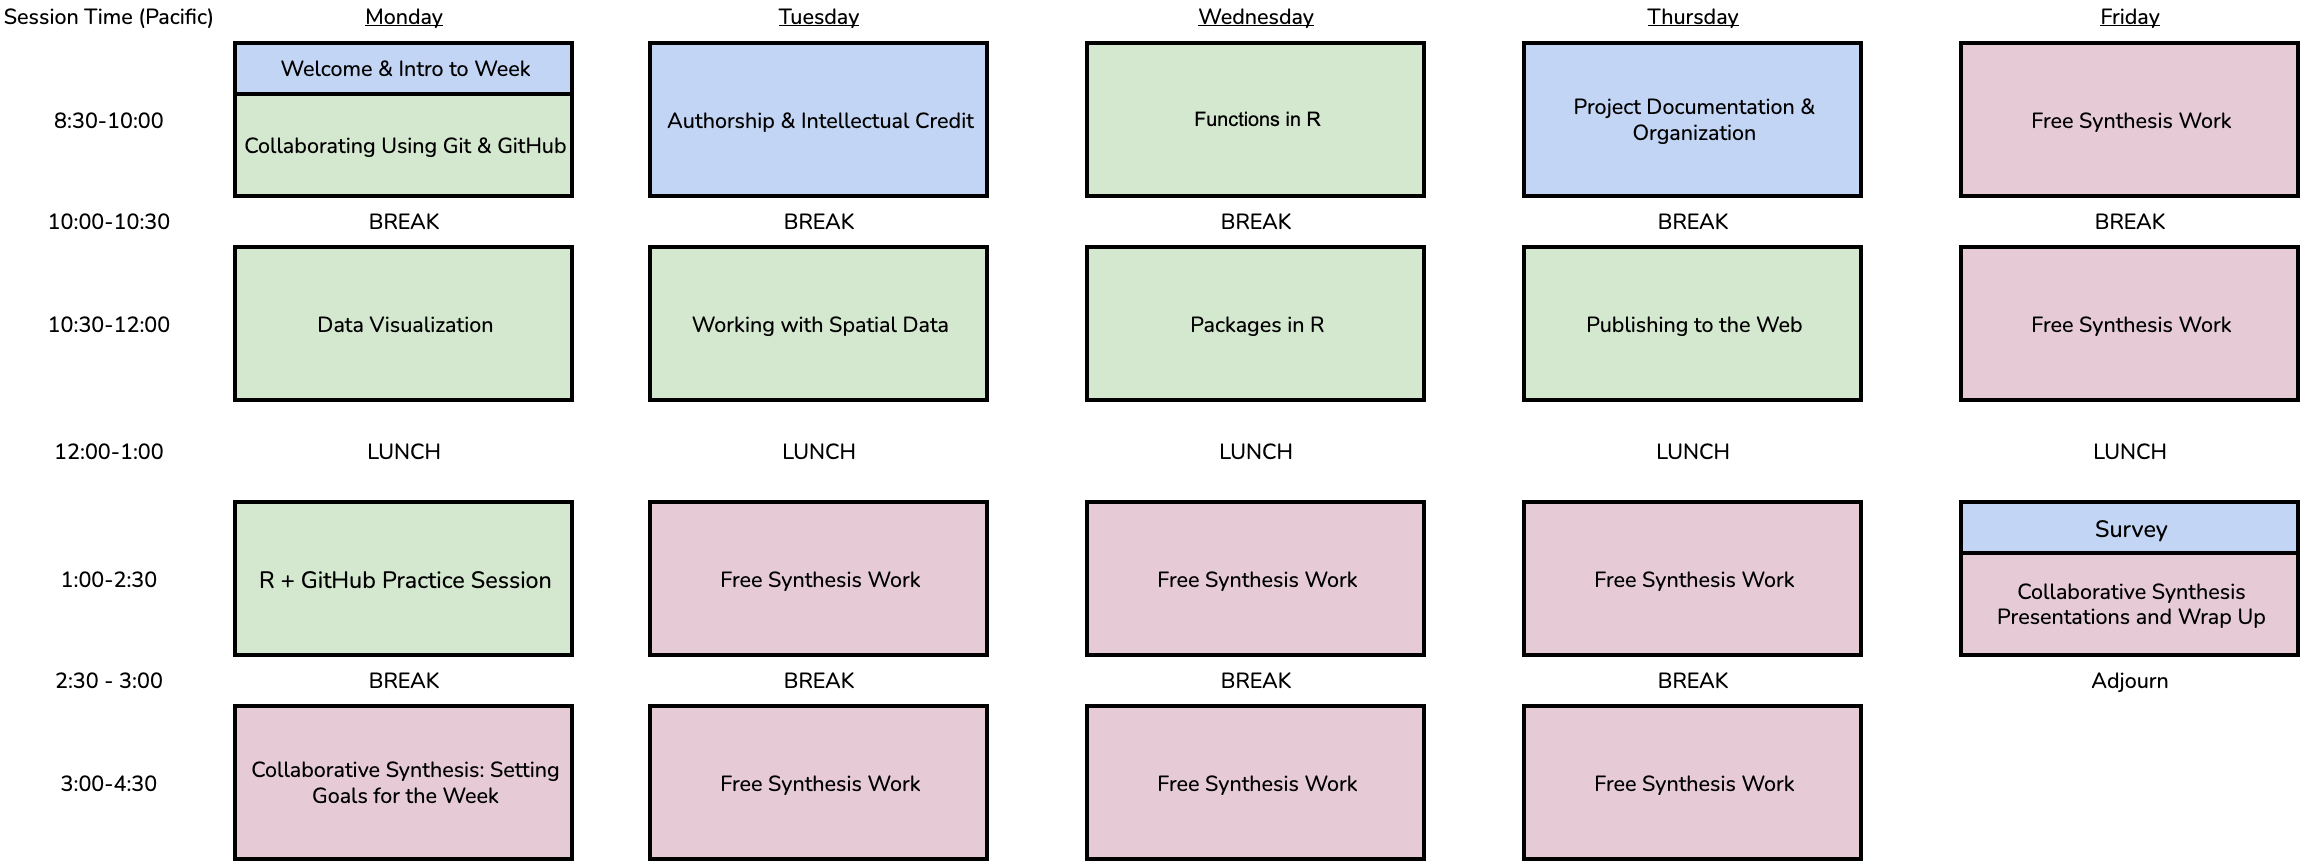
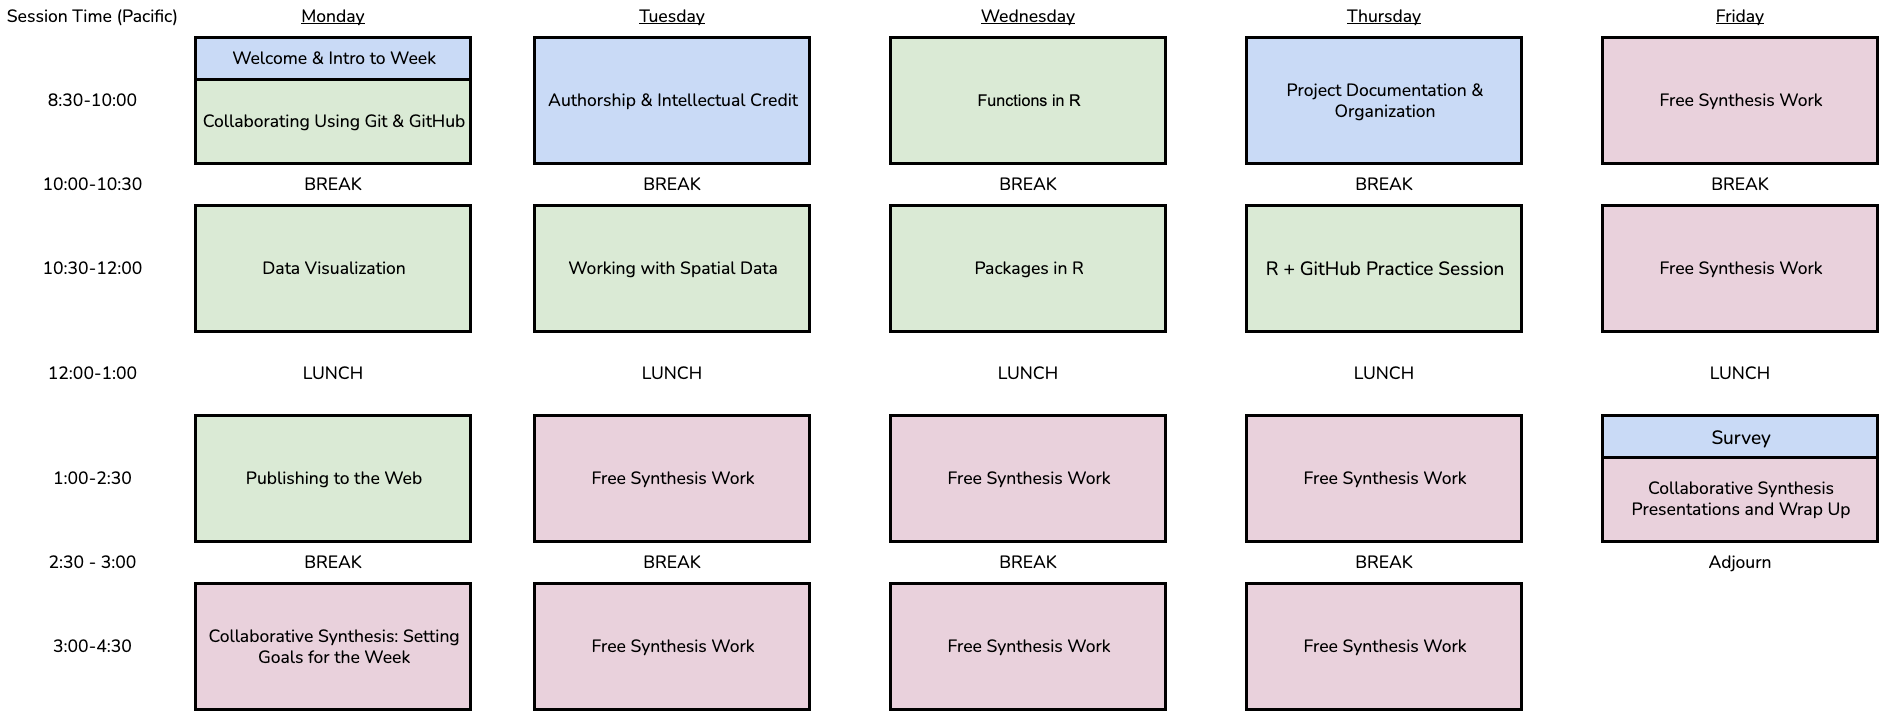
Built site for gh-pages

diff --git a/index.html b/index.html
@@ -557,7 +557,7 @@ ul.task-list li input[type="checkbox"] {
 <td style="text-align: center;">1</td>
 <td style="text-align: center;">9 - 10a</td>
 <td style="text-align: left;"><span style="color:#6a994e"><i class="fa-solid fa-screwdriver-wrench" aria-label="screwdriver-wrench"></i> <strong>Collaborating Using Git &amp; GitHub</strong></span></td>
-<td style="text-align: left;">TBD</td>
+<td style="text-align: left;">Casey O’Hara</td>
 </tr>
 <tr class="odd">
 <td style="text-align: center;">1</td>
@@ -569,7 +569,7 @@ ul.task-list li input[type="checkbox"] {
 <td style="text-align: center;">1</td>
 <td style="text-align: center;">10:30 - 12p</td>
 <td style="text-align: left;"><span style="color:#6a994e"><i class="fa-solid fa-screwdriver-wrench" aria-label="screwdriver-wrench"></i> <strong>Data Visualization</strong></span></td>
-<td style="text-align: left;">TBD</td>
+<td style="text-align: left;">Jim Regetz</td>
 </tr>
 <tr class="odd">
 <td style="text-align: center;">1</td>
@@ -580,8 +580,8 @@ ul.task-list li input[type="checkbox"] {
 <tr class="even">
 <td style="text-align: center;">1</td>
 <td style="text-align: center;">1 - 2:30p</td>
-<td style="text-align: left;"><span style="color:#6a994e"><i class="fa-solid fa-screwdriver-wrench" aria-label="screwdriver-wrench"></i> <strong>R + GitHub Practice Session</strong></span></td>
-<td style="text-align: left;">TBD</td>
+<td style="text-align: left;"><span style="color:#6a994e"><i class="fa-solid fa-screwdriver-wrench" aria-label="screwdriver-wrench"></i> <strong>Publishing to the Web</strong></span></td>
+<td style="text-align: left;">Jim Regetz</td>
 </tr>
 <tr class="odd">
 <td style="text-align: center;">1</td>
@@ -619,7 +619,7 @@ ul.task-list li input[type="checkbox"] {
 <td style="text-align: center;">2</td>
 <td style="text-align: center;">8:30 - 10a</td>
 <td style="text-align: left;"><span style="color:#118ab2"><i class="fa-solid fa-people-group" aria-label="people-group"></i> <strong>Authorship &amp; Intellectual Credit</strong></span></td>
-<td style="text-align: left;">TBD</td>
+<td style="text-align: left;">Nick Lyon</td>
 </tr>
 <tr class="even">
 <td style="text-align: center;">2</td>
@@ -631,7 +631,7 @@ ul.task-list li input[type="checkbox"] {
 <td style="text-align: center;">2</td>
 <td style="text-align: center;">10:30 - 12p</td>
 <td style="text-align: left;"><span style="color:#6a994e"><i class="fa-solid fa-screwdriver-wrench" aria-label="screwdriver-wrench"></i> <strong>Working with Spatial Data</strong></span></td>
-<td style="text-align: left;">TBD</td>
+<td style="text-align: left;">Casey O’Hara</td>
 </tr>
 <tr class="even">
 <td style="text-align: center;">2</td>
@@ -681,7 +681,7 @@ ul.task-list li input[type="checkbox"] {
 <td style="text-align: center;">3</td>
 <td style="text-align: center;">8:30 - 10a</td>
 <td style="text-align: left;"><span style="color:#6a994e"><i class="fa-solid fa-screwdriver-wrench" aria-label="screwdriver-wrench"></i> <strong>Functions in R</strong></span></td>
-<td style="text-align: left;">TBD</td>
+<td style="text-align: left;">Casey O’Hara</td>
 </tr>
 <tr class="even">
 <td style="text-align: center;">3</td>
@@ -693,7 +693,7 @@ ul.task-list li input[type="checkbox"] {
 <td style="text-align: center;">3</td>
 <td style="text-align: center;">10:30 - 12p</td>
 <td style="text-align: left;"><span style="color:#6a994e"><i class="fa-solid fa-screwdriver-wrench" aria-label="screwdriver-wrench"></i> <strong>Packages in R</strong></span></td>
-<td style="text-align: left;">TBD</td>
+<td style="text-align: left;">Nick Lyon</td>
 </tr>
 <tr class="even">
 <td style="text-align: center;">3</td>
@@ -743,7 +743,7 @@ ul.task-list li input[type="checkbox"] {
 <td style="text-align: center;">4</td>
 <td style="text-align: center;">8:30 - 10a</td>
 <td style="text-align: left;"><span style="color:#118ab2"><i class="fa-solid fa-people-group" aria-label="people-group"></i> <strong>Project Documentation <br> &amp; Organization</strong></span></td>
-<td style="text-align: left;">TBD</td>
+<td style="text-align: left;">Nick Lyon</td>
 </tr>
 <tr class="even">
 <td style="text-align: center;">4</td>
@@ -754,8 +754,8 @@ ul.task-list li input[type="checkbox"] {
 <tr class="odd">
 <td style="text-align: center;">4</td>
 <td style="text-align: center;">10:30 - 12p</td>
-<td style="text-align: left;"><span style="color:#6a994e"><i class="fa-solid fa-screwdriver-wrench" aria-label="screwdriver-wrench"></i> <strong>Publishing to the Web</strong></span></td>
-<td style="text-align: left;">TBD</td>
+<td style="text-align: left;"><span style="color:#6a994e"><i class="fa-solid fa-screwdriver-wrench" aria-label="screwdriver-wrench"></i> <strong>R + GitHub Practice Session</strong></span></td>
+<td style="text-align: left;">Jim Regetz</td>
 </tr>
 <tr class="even">
 <td style="text-align: center;">4</td>
